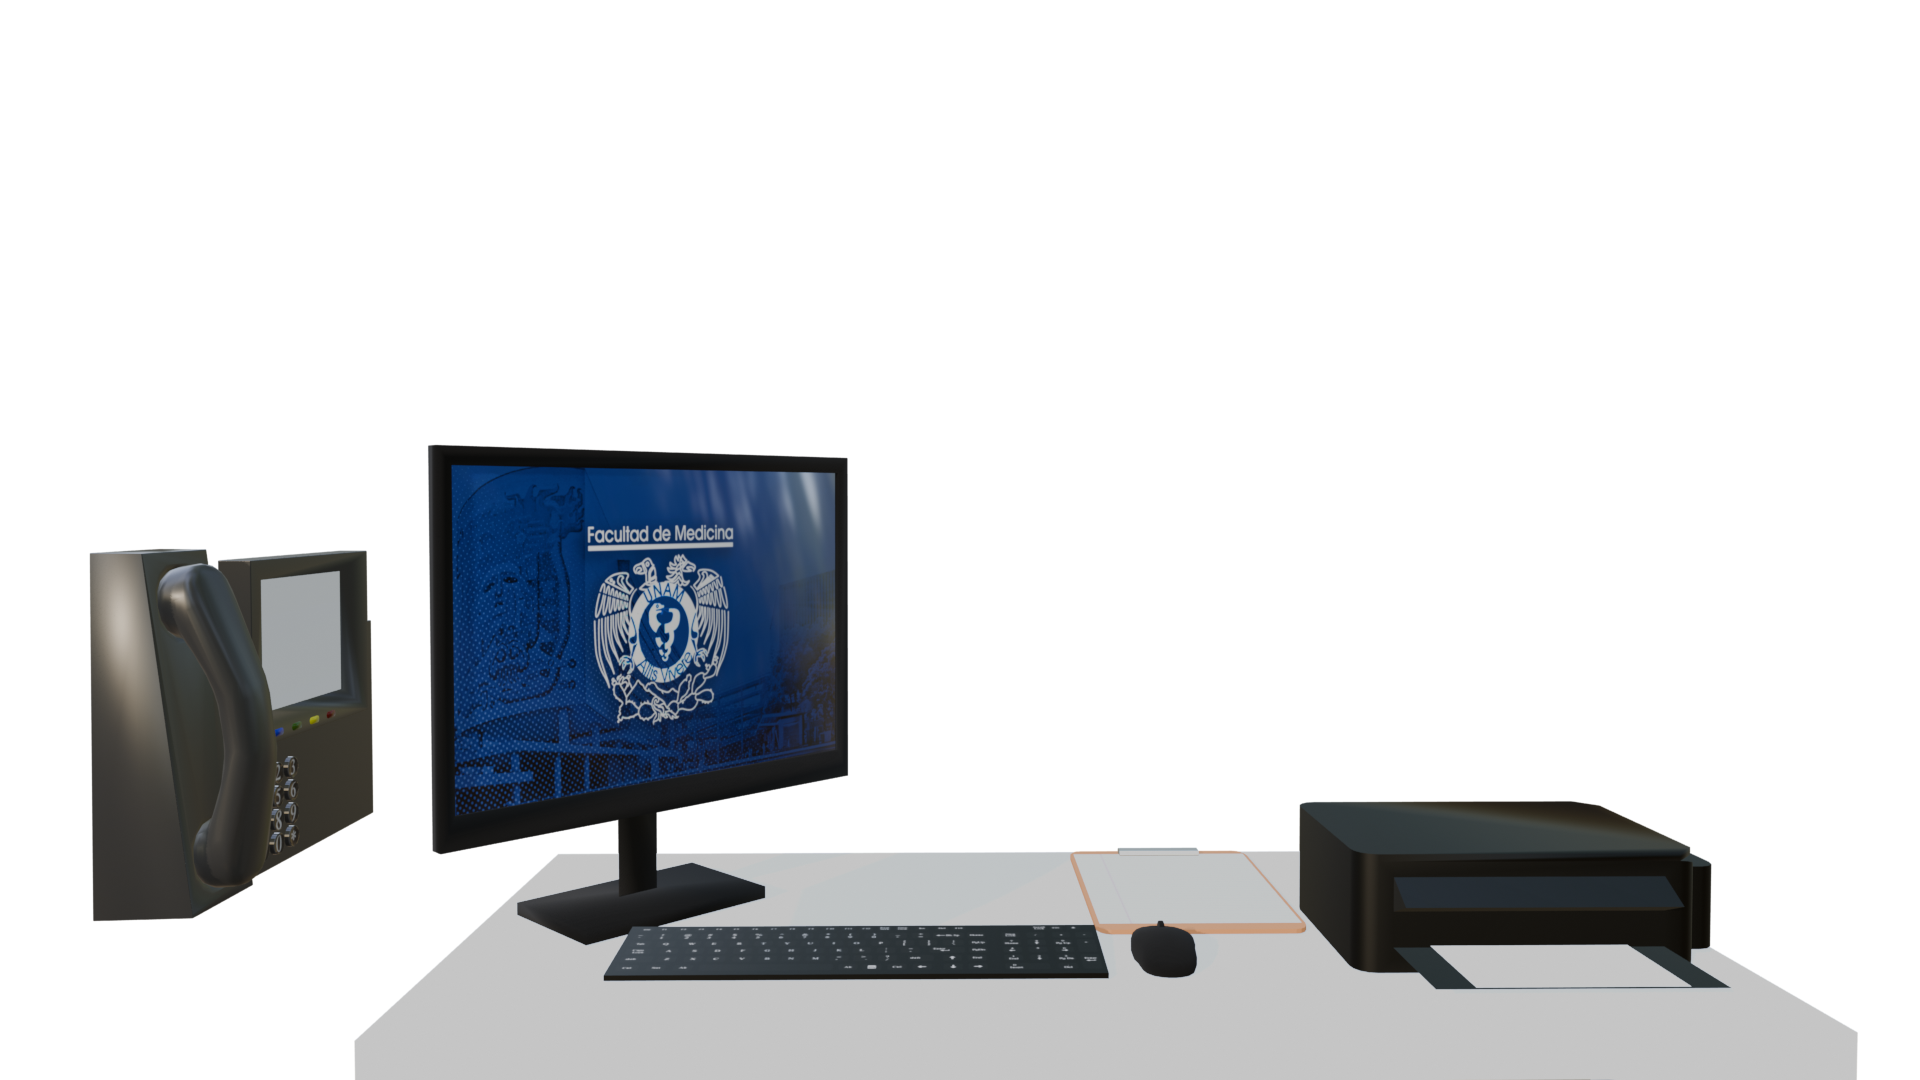
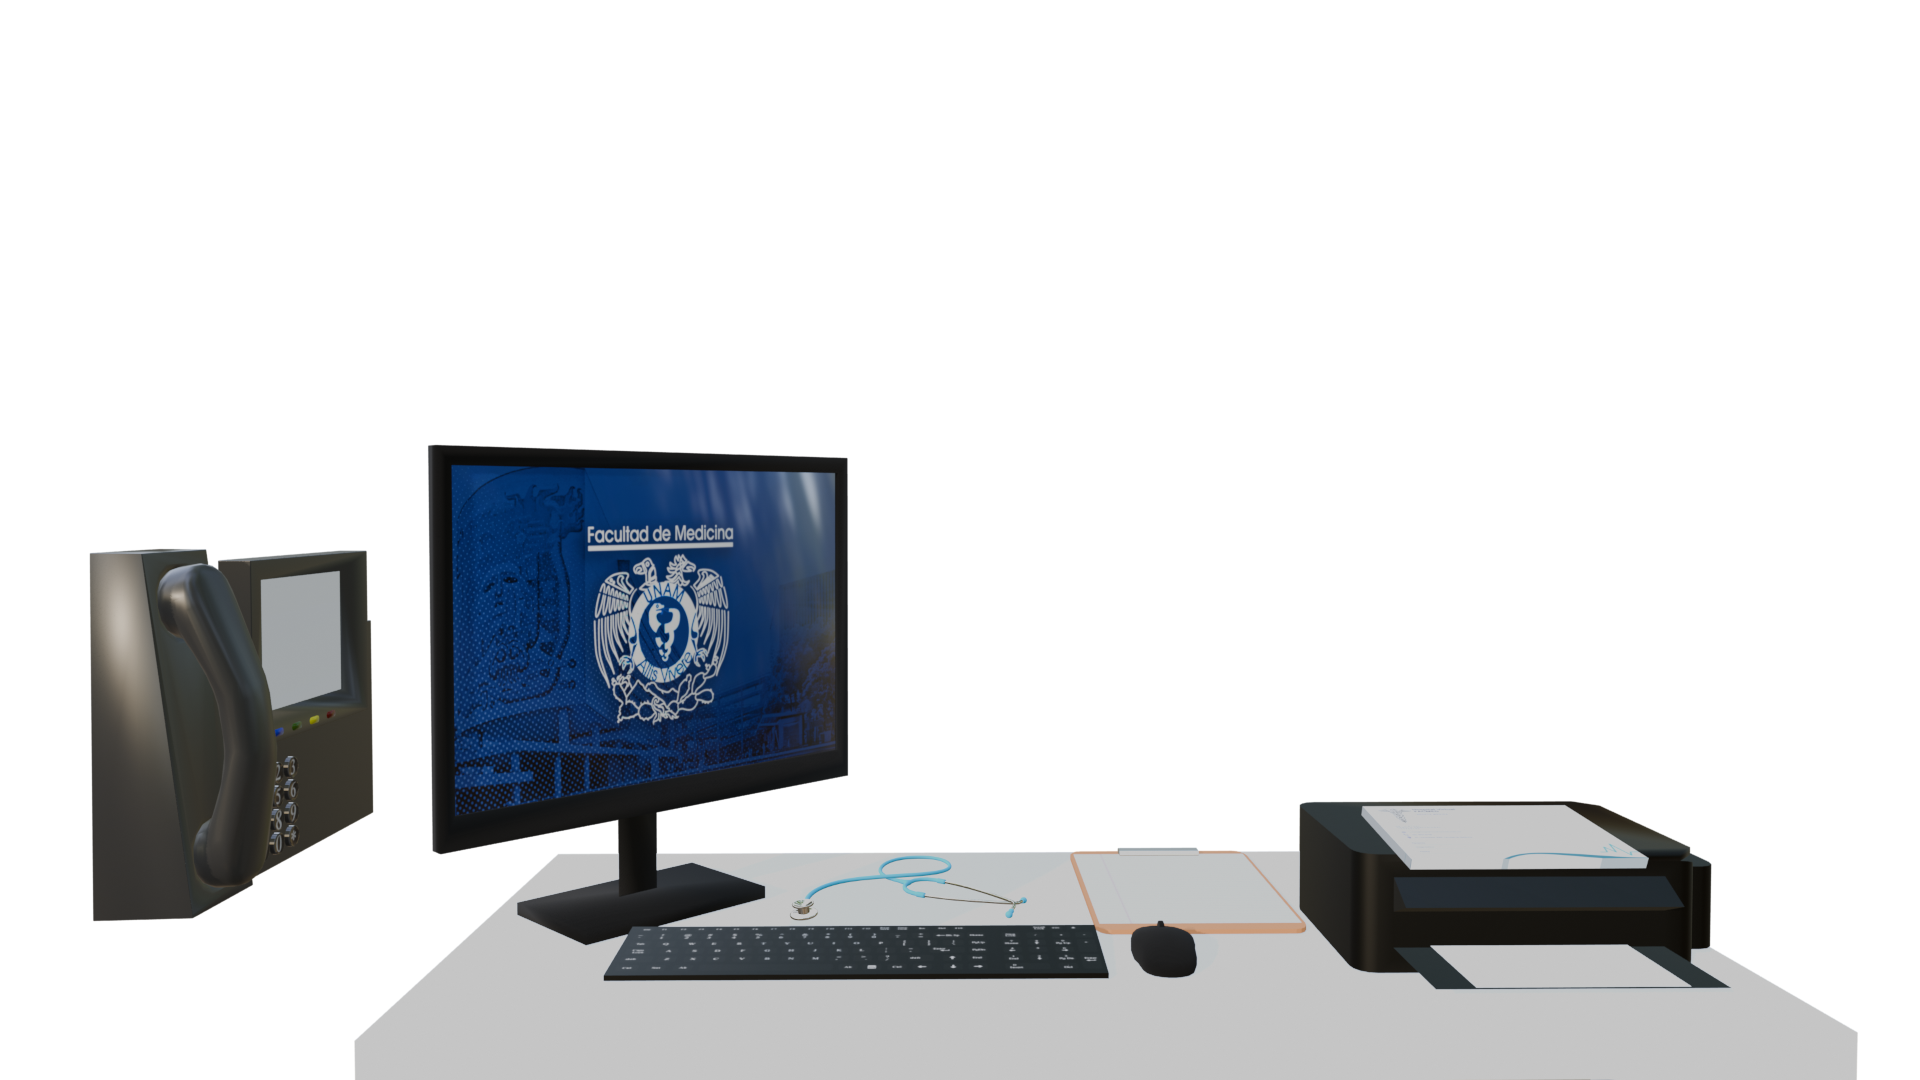
Actualización de interfaz
Actualización de interfaz de usuario

diff --git a/app/region/php/style.css b/app/region/php/style.css
@@ -75,7 +75,7 @@ img {
 }
 
 .ag-timeline-block {
-  padding: 300px 0;
+  padding: 100px 0;
 }
 .ag-timeline_title-box {
   padding: 0 0 30px;

diff --git a/app/region/php/cases/caso.php b/app/region/php/cases/caso.php
@@ -139,40 +139,15 @@
         exit();
     }
     ?>
+    
     <nav class="navbar fixed-top bg-dark navbar-expand-lg bg-body-tertiary" data-bs-theme="dark">
       <div class="container-fluid">
-          <button class="navbar-toggler" type="button" data-bs-toggle="collapse" data-bs-target="#navbarNavDropdown" aria-controls="navbarNavDropdown" aria-expanded="false" aria-label="Toggle navigation">
-          <span class="navbar-toggler-icon"></span>
+        <button type="button" class="btn btn-danger" onclick="history.back()">
+            <i class="bi bi-box-arrow-left h1"></i>
         </button>
-        <div class="collapse navbar-collapse" id="navbarNavDropdown">
-          <ul class="navbar-nav">
-            <li class="nav-item">
-              <button type="button" class="btn btn-primary" data-bs-toggle="modal" data-bs-target="#modalPopup" id="introButton">Instrucciones</button>
-            </li>
-            <!--li class="nav-item">
-                <button type="button" class="btn btn-primary" data-bs-toggle="modal" data-bs-target="#modalPopup" id="caseButton">Información General del Caso</button> 
-            </li-->  
-            <li class="nav-item dropdown">
-              <a class="nav-link dropdown-toggle" href="#" role="button" data-bs-toggle="dropdown" aria-expanded="false">
-                Información Adicional
-              </a>
-              <ul class="dropdown-menu">
-                <!--li><button type="button" class="btn btn-info position-relative dropdown-item" data-bs-toggle="modal" data-bs-target="#modalPopup" id="ipButton">Información del paciente<span class="position-absolute top-0 start-100 translate-middle badge rounded-pill bg-danger">-10</span></button></li-->
-                <!--li><button type="button" class="btn btn-info position-relative dropdown-item" data-bs-toggle="modal" data-bs-target="#modalPopup" id="hcButton">Historia Clínica<span class="position-absolute top-0 start-100 translate-middle badge rounded-pill bg-danger">-10</span></button></li-->
-                <!--li><button type="button" class="btn btn-info position-relative dropdown-item" data-bs-toggle="modal" data-bs-target="#modalPopup" id="efButton">Exploración física<span class="position-absolute top-0 start-100 translate-middle badge rounded-pill bg-danger">-10</span></button></li-->
-                <li><button type="button" class="btn btn-info position-relative dropdown-item" data-bs-toggle="modal" data-bs-target="#modalPopup" id="acButton">Auscultación<span class="position-absolute top-0 start-100 translate-middle badge rounded-pill bg-danger">-10</span></button></li>
-                <!--li><button type="button" class="btn btn-info position-relative dropdown-item" data-bs-toggle="modal" data-bs-target="#modalPopup" id="lpButton">Laboratorios y otras pruebas<span class="position-absolute top-0 start-100 translate-middle badge rounded-pill bg-danger">-10</span></button></li-->
-                <!--li><button type="button" class="btn btn-info position-relative dropdown-item" data-bs-toggle="modal" data-bs-target="#modalPopup" id="imButton">Imagen<span class="position-absolute top-0 start-100 translate-middle badge rounded-pill bg-danger">-10</span></button></li-->
-                <li><button type="button" class="btn btn-info position-relative dropdown-item" data-bs-toggle="modal" data-bs-target="#modalPopup" id="tmButton">Tratamiento<span class="position-absolute top-0 start-100 translate-middle badge rounded-pill bg-danger">-10</span></button></li>
-              </ul>
-            </li>
-          </ul>
-        </div>
-        <div class="text-center"><button type="button" class="btn btn-success">
+        <button type="button" class="btn btn-success">
             <span class="h2"><i class="bi bi-trophy-fill h2"></i></span> <span class="badge text-bg-warning fs-4" id="rankCounter">100</span>
-        </button><button type="button" class="btn btn-danger" onclick="history.back()">
-          <i class="bi bi-box-arrow-right h1"></i>
-        </button></div>
+        </button>
       </div>
     </nav>
     
@@ -218,11 +193,13 @@
             <area id="screen-area" target="_self" alt="Screen" title="Screen" href="javascript:void(0);" coords="432,444,437,849,847,775,847,456" shape="poly" data-bs-toggle="modal" data-bs-target="#modalPopup">
             <area id="keyboard-area" target="_self" alt="Keyboard" title="Keyboard" href="javascript:void(0);"  coords="640,924,603,975,1110,975,1088,924" shape="poly" data-bs-toggle="modal" data-bs-target="#modalPopup">
             <area id="note-area" target="_self" alt="Note" title="Note" href="javascript:void(0);"  coords="1073,851,1100,926,1303,926,1244,853" shape="poly" data-bs-toggle="modal" data-bs-target="#modalPopup">
-            <area id="print-area" target="_self" alt="Print" title="Print" href="javascript:void(0);"  coords="1303,802,1300,907,1358,966,1415,968,1436,988,1727,988,1690,965,1690,944,1709,946,1709,861,1688,848,1602,804" shape="poly" data-bs-toggle="modal" data-bs-target="#modalPopup">
+            <area id="print-area" target="_self" alt="Print" title="Print" href="javascript:void(0);"  coords="1300,807,1302,907,1356,966,1420,975,1443,992,1733,990,1690,963,1711,944,1707,868,1373,882" shape="poly" data-bs-toggle="modal" data-bs-target="#modalPopup">
             <area id="mouse-area" target="_self" alt="Mouse" title="Mouse" href="javascript:void(0);" coords="1130,949,1147,970,1188,971,1193,938,1163,927,1134,932" shape="poly" data-bs-toggle="modal" data-bs-target="#modalPopup">
-            <area id="patient-area" target="_self" alt="Patient" title="Patient" href="#" coords="1005,844,1234,846,1229,476,1000,471" shape="poly" data-bs-toggle="modal" data-bs-target="#modalPopup">
-            <area id="tallimeter-area" target="_self" alt="Tallimeter" title="Tallimeter" href="#" coords="1388,834,1397,453,1348,432,1344,371,1509,376,1509,437,1453,456,1458,834" shape="poly" data-bs-toggle="modal" data-bs-target="#modalPopup">
-            <area id="negatoscope-area" target="_self" alt="Negatoscope" title="Negatoscope" href="#" coords="1578,249,1578,414,1914,414,1911,256" shape="poly" data-bs-toggle="modal" data-bs-target="#modalPopup">
+            <area id="patient-area" target="_self" alt="Patient" title="Patient" href="javascript:void(0);" coords="1005,844,1234,846,1229,476,1000,471" shape="poly" data-bs-toggle="modal" data-bs-target="#modalPopup">
+            <area id="tallimeter-area" target="_self" alt="Tallimeter" title="Tallimeter" href="javascript:void(0);" coords="1388,834,1397,453,1348,432,1344,371,1509,376,1509,437,1453,456,1458,834" shape="poly" data-bs-toggle="modal" data-bs-target="#modalPopup">
+            <area id="negatoscope-area" target="_self" alt="Negatoscope" title="Negatoscope" href="javascript:void(0);" coords="1578,249,1578,414,1914,414,1911,256" shape="poly" data-bs-toggle="modal" data-bs-target="#modalPopup">
+            <area id="stetoscope-area" target="_self" alt="Estetoscopio" title="Estetoscopio" href="javascript:void(0);" coords="820,868,786,887,779,907,796,917,820,916,844,894,871,890,905,902,940,909,993,919,1030,919,1041,888,993,877,964,853,864,853" shape="poly" data-bs-toggle="modal" data-bs-target="#modalPopup">
+            <area id="prescription-area" target="_self" alt="prescription" title="prescription" href="javascript:void(0);" coords="1356,809,1414,875,1658,866,1568,800" shape="poly" data-bs-toggle="modal" data-bs-target="#modalPopup">
         </map>
     </div>
     
@@ -303,15 +280,15 @@
         countdownBar.stop();
           
         // document.getElementById("caseButton").addEventListener("click", playCase, false);
-        document.getElementById("introButton").addEventListener("click", instructions, false);
+        // document.getElementById("introButton").addEventListener("click", instructions, false);
           
         // document.getElementById("ipButton").addEventListener("click", ipCase, false);
         // document.getElementById("hcButton").addEventListener("click", hcCase, false);
         // document.getElementById("efButton").addEventListener("click", efCase, false);
-        document.getElementById("acButton").addEventListener("click", acCase, false);
+        // document.getElementById("acButton").addEventListener("click", acCase, false);
         // document.getElementById("lpButton").addEventListener("click", lpCase, false);
         // document.getElementById("imButton").addEventListener("click", imCase, false);
-        document.getElementById("tmButton").addEventListener("click", tmCase, false);
+        // document.getElementById("tmButton").addEventListener("click", tmCase, false);
         document.getElementById("runButton").addEventListener("click", runCase, false);
         document.getElementById("closeButton").addEventListener("click", closeTest, false);
           
@@ -327,15 +304,19 @@
         document.getElementById("patient-area").addEventListener("click", patientClicked, false);
         document.getElementById("negatoscope-area").addEventListener("click", negatoscopeClicked, false);
         document.getElementById("tallimeter-area").addEventListener("click", tallimeterClicked, false);
+        document.getElementById("stetoscope-area").addEventListener("click", stetoscopeClicked, false);
+        document.getElementById("prescription-area").addEventListener("click", prescriptionClicked, false);
         
         const telaudio = new Audio('audio/telephone.mp3');
         const pcaudio = new Audio('audio/click.mp3');
         const noteaudio = new Audio('audio/note.mp3');
         const printaudio = new Audio('audio/print.mp3');
         const patientaudio = new Audio('audio/patient.mp3');
+        const heartaudio = new Audio('audio/heartbeat.mp3');
         
         function telephoneClicked(){
             telaudio.play();
+            instructions();
         }
         function pcClicked(){
             pcaudio.play();
@@ -362,6 +343,16 @@
         function tallimeterClicked(){
             patientaudio.play();
             ipCase();
+        }
+        
+        function stetoscopeClicked(){
+            heartaudio.play();
+            acCase();
+        }
+        
+        function prescriptionClicked(){
+            noteaudio.play();
+            tmCase();
         }
         
         function playCase(){

diff --git a/app/region/php/levels.php b/app/region/php/levels.php
@@ -19,6 +19,13 @@
   </head>
 
   <body>
+    <nav class="navbar fixed-top bg-dark navbar-expand-lg bg-body-tertiary" data-bs-theme="dark">
+      <div class="container-fluid">
+        <button type="button" class="btn btn-danger" onclick="history.back()">
+            <i class="bi bi-box-arrow-left h1"></i>
+        </button>
+      </div>
+    </nav>
     <div class="ag-timeline-block">
       <div class="ag-timeline_title-box">
         <div class="ag-timeline_title" id="system_title"></div>
